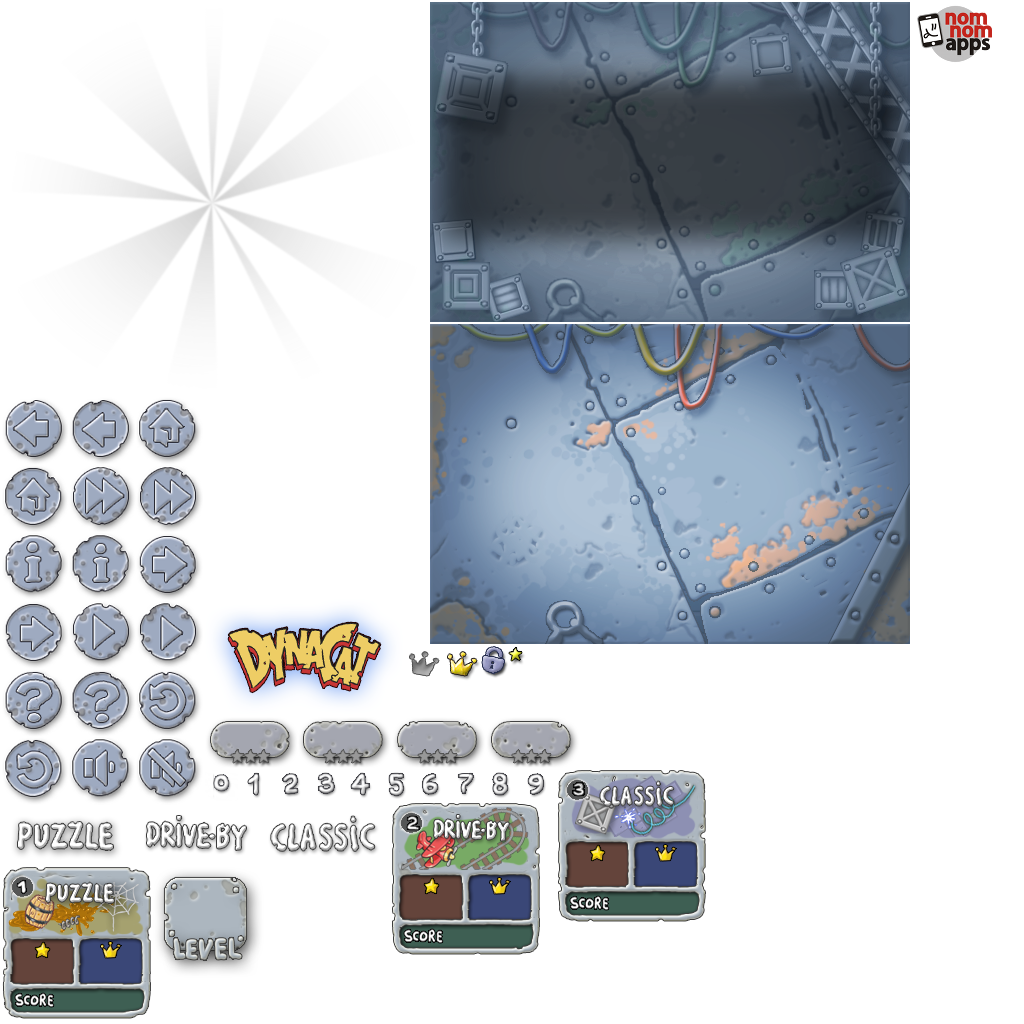
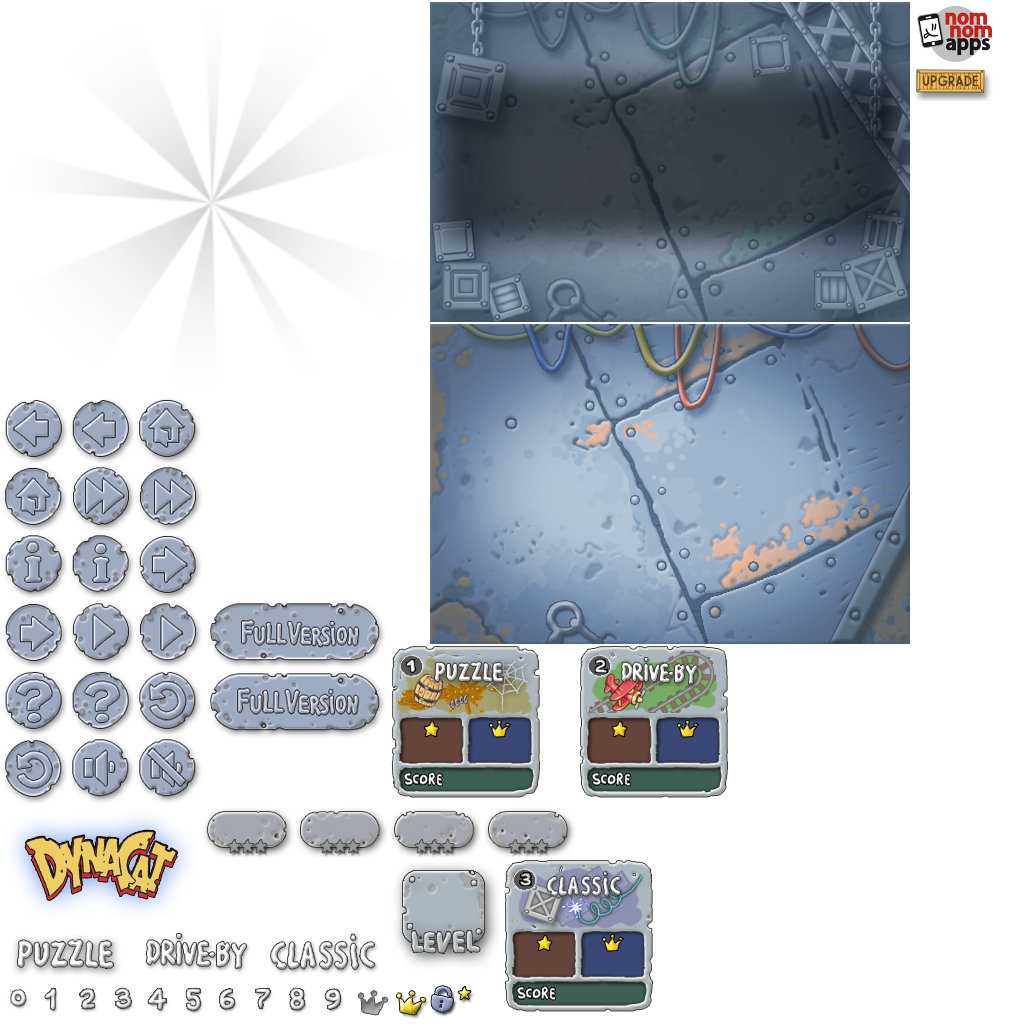
free version implementation

Changed region(s): [[0.0, 0.5625, 0.7188, 1.0], [0.875, 0.0625, 0.9688, 0.125]]

diff --git a/Source/Lunohod/Lunohod/Engine/XSystem.cs b/Source/Lunohod/Lunohod/Engine/XSystem.cs
@@ -276,7 +276,13 @@ namespace Lunohod.Objects
 			get { return GameEngine.Instance.IsMute; }
 			set { GameEngine.Instance.IsMute = value; }
 		}
-
+		
+		public bool IsFreeVersion
+		{
+			get { return GameEngine.IsFreeVersion; }
+			set { }
+		}
+		
 		public void PauseLevelSoundEffects(bool pause)
 		{
 			GameEngine.Instance.SoundEffectsPaused = pause; 
@@ -300,6 +306,7 @@ namespace Lunohod.Objects
 			switch(propertyName)
 			{
 				case "IsMute" : getter = () => this.IsMute; setter = (v) => this.IsMute = v; break;
+				case "IsFreeVersion" : getter = () => this.IsFreeVersion; setter = null; break;
 				default:
 					base.GetProperty(propertyName, out getter, out setter); break;
 			}

diff --git a/Source/Lunohod/Lunohod/GameEngine.cs b/Source/Lunohod/Lunohod/GameEngine.cs
@@ -41,7 +41,8 @@ namespace Lunohod
 		public const int MaxWaveTravelDistance = 577;
 		
 		//public Stopwatch gameWatch = new Stopwatch();
-		
+
+		public static bool IsFreeVersion;
 		public static GameEngine Instance { get; private set; }
 		
 		public XGame GameObject { get; private set; }

diff --git a/Source/Lunohod/DynaCatFree/Main.cs b/Source/Lunohod/DynaCatFree/Main.cs
@@ -17,6 +17,7 @@ namespace DynaCatFree
 		/// </summary>
 		public static void Main(string[] args)
 		{
+			Lunohod.GameEngine.IsFreeVersion = true;
 			Lunohod.Program.Main(args);
 		}
 	}    

diff --git a/Source/Lunohod/DynaCat/Main.cs b/Source/Lunohod/DynaCat/Main.cs
@@ -17,6 +17,7 @@ namespace DynaCat
 		/// </summary>
 		public static void Main(string[] args)
 		{
+			Lunohod.GameEngine.IsFreeVersion = false;
 			Lunohod.Program.Main(args);
 		}
 	}    
